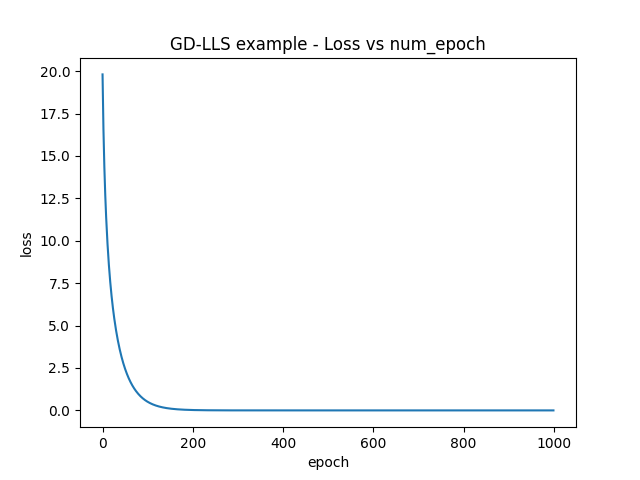
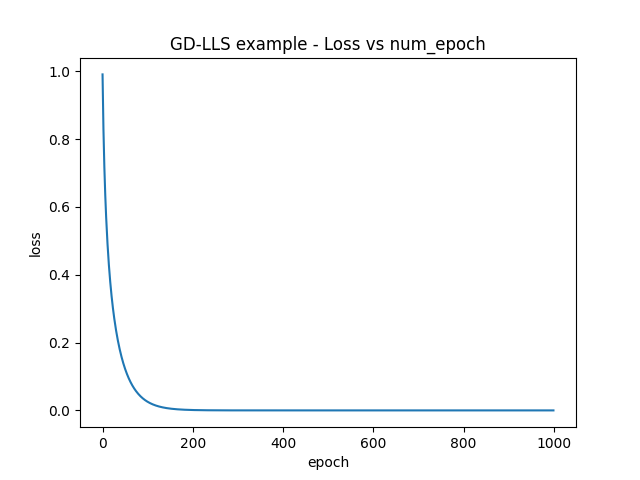
fixed LLS-GD example plot

diff --git a/GD-LLS_example/LLS_GD_example.py b/GD-LLS_example/LLS_GD_example.py
@@ -43,10 +43,8 @@ expectations = [f(x) for x in xs]
 
 
 def loss(f_, data_, weights):
-
     data_list = list(data_)
-    print(f'len: {len(data_list)}')
-    return sum([f_(x_i, weights, y_i) for (x_i, y_i) in data_list])  # / len(list(data_))
+    return sum([f_(x_i, weights, y_i) for (x_i, y_i) in data_list]) / len(data_list)
 
 
 
@@ -85,7 +83,7 @@ plt.title('GD-LLS example - Loss vs num_epoch')
 plt.xlabel('epoch')
 plt.ylabel('loss')
 plt.plot(x, l)
-plt.savefig('GD-LLS_example.png')
+# plt.savefig('GD-LLS_example.png')
 plt.show()
 
 """
